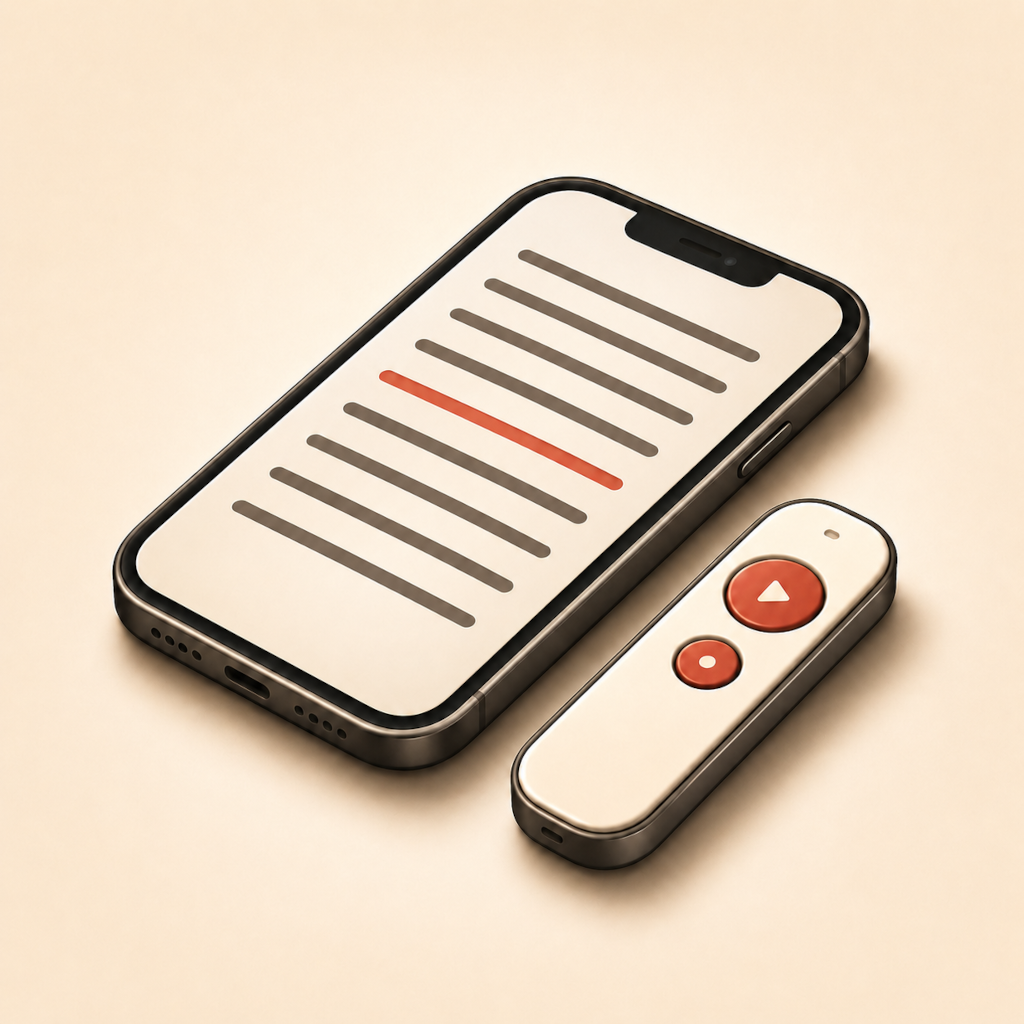
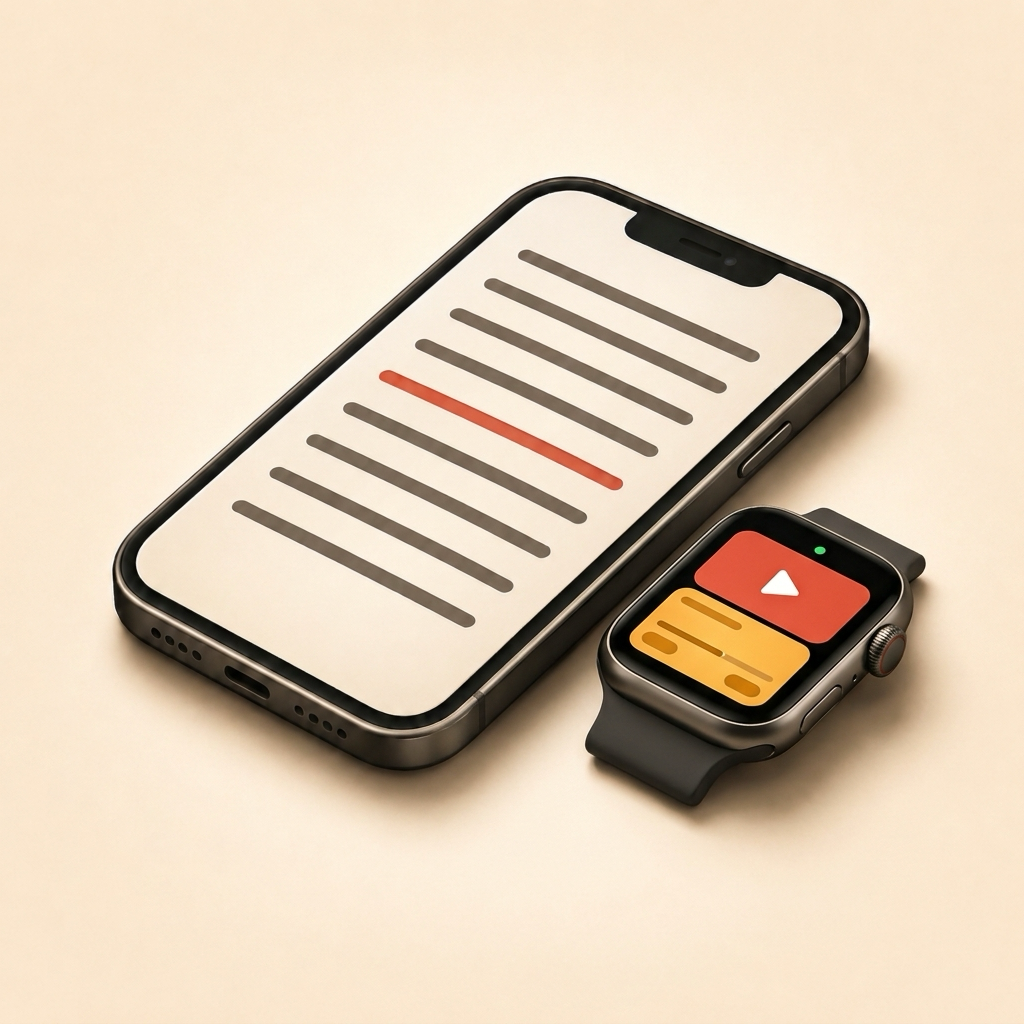
fix(privacy): disclose Mixpanel EU analytics and RevenueCat subscription processing in privacy policy

Changed region(s): [[0.5, 0.4688, 0.9375, 0.9062], [0.4062, 0.6875, 0.4688, 0.75]]

diff --git a/privacy.html b/privacy.html
@@ -4,7 +4,7 @@
     <meta charset="UTF-8">
     <meta name="viewport" content="width=device-width, initial-scale=1.0">
     <title>Privacy Policy — VoxPresenter</title>
-    <meta name="description" content="VoxPresenter privacy policy. All your data stays on your device.">
+    <meta name="description" content="VoxPresenter privacy policy. On-device speech recognition, local script storage, and transparent EU product analytics & subscription management.">
     <meta name="robots" content="index, follow">
     <link rel="canonical" href="https://voxpresenter.com/privacy.html">
     <meta name="apple-itunes-app" content="app-id=6772470530">
@@ -48,123 +48,115 @@
         <!-- ENGLISH -->
         <div class="lang-block active" id="block-en">
             <h1>Privacy Policy</h1>
-            <p class="last-updated">Last updated: May 23, 2026</p>
+            <p class="last-updated">Last updated: October 24, 2026</p>
             <div class="highlight">
-                <p><strong>Summary:</strong> VoxPresenter respects your privacy. All your data stays on your device. We collect, store, and share no personal data whatsoever.</p>
+                <p><strong>Summary:</strong> Your script bodies and voice audio stay on your device. To manage subscriptions and improve app reliability, VoxPresenter uses pseudonymous product analytics hosted in the European Union (Mixpanel EU) and subscription management via RevenueCat &amp; Apple StoreKit. We never sell your data or track you across third-party apps.</p>
             </div>
             <h2>1. Introduction</h2>
-            <p>VoxPresenter is a voice-driven teleprompter app built with privacy as an absolute priority. This policy explains how we handle — or rather, do not handle — your information.</p>
-            <h2>2. Data collected</h2>
-            <p><strong>We collect no personal data.</strong></p>
-            <p>VoxPresenter runs entirely on your device and stores locally:</p>
+            <p>VoxPresenter is a voice-driven teleprompter and stage remote app for iPhone, iPad, Apple Watch, Mac, and Windows. This Privacy Policy explains what data stays exclusively on your device, what technical and usage data is processed to operate the app, and how your rights are protected under the GDPR and Apple App Store guidelines.</p>
+            <h2>2. Data Stored Locally on Your Device</h2>
+            <p>Your teleprompter content is stored locally on your device (and in your personal iCloud / App Group container when syncing with the Share Extension or Apple Watch):</p>
             <ul>
-                <li>Your scripts and imported texts</li>
-                <li>Your display and reading preferences</li>
+                <li>The full body text of your scripts and imported documents (<code>.pptx</code>, <code>.docx</code>, <code>.pdf</code>, <code>.rtf</code>)</li>
+                <li>Your display, mirror, font size, and reading preferences</li>
             </ul>
-            <p>This data never leaves your device and is never sent to any server.</p>
-            <h2>3. Speech recognition</h2>
-            <p>VoxPresenter's speech recognition uses Apple's on-device <strong>Speech framework</strong>. Your voice is never sent to an external server. No audio recording is retained.</p>
-            <h2>4. Data storage</h2>
-            <p>All data is stored locally on your iPhone using Apple's native frameworks. It is:</p>
+            <p><strong>The body text of your scripts is never uploaded to our servers.</strong></p>
+            <h2>3. Speech Recognition &amp; Microphone</h2>
+            <p>VoxPresenter's voice tracking uses Apple's <strong>Speech framework</strong> (running offline on-device for supported languages). Your voice audio is analyzed in real time solely to highlight and advance your script. <strong>No audio recording is ever stored or transmitted to us.</strong></p>
+            <h2>4. Data Collected for App Functionality &amp; Analytics</h2>
+            <p>To operate subscriptions and improve product reliability, VoxPresenter collects the following categories of data, linked to a random pseudonymous installation identifier (not your name or email):</p>
             <ul>
-                <li>Protected by iOS native encryption</li>
-                <li>Accessible only to VoxPresenter</li>
-                <li>Backed up in your iCloud backup (if enabled)</li>
-                <li>Automatically deleted when you uninstall the app</li>
+                <li><strong>Identifiers:</strong> A random pseudonymous device/installation UUID (<code>distinct_id</code>) and an anonymous RevenueCat app user ID (<code>rc_user_id</code>).</li>
+                <li><strong>Purchases &amp; Subscription History:</strong> Subscription status, trial state, and product identifiers processed via Apple StoreKit and RevenueCat to unlock <em>VoxPresenter Pro</em> across your devices.</li>
+                <li><strong>Product Interaction &amp; Usage Data:</strong> App launches, onboarding step progression, paywall views, prompter session metrics (script UUID, script title, word and paragraph counts, session duration, voice vs. manual advances, accuracy ratios, display/mirror settings), and Mac/PC or Apple Watch remote usage (including local peer connection status).</li>
+                <li><strong>Diagnostics:</strong> Speech recognizer and audio session error codes, microphone restart counts, and app version/OS metadata to diagnose and fix stage or audio interruptions.</li>
+                <li><strong>User Content (Metadata &amp; Optional Feedback):</strong> Script title metadata in session events, and any optional free-text comment you voluntarily submit through the in-app feedback prompt.</li>
             </ul>
-            <h2>5. Data sharing</h2>
-            <p><strong>We share no data with any third party.</strong></p>
-            <p>No analytics, no tracking, no ads.</p>
-            <h2>6. Third-party services</h2>
-            <p>VoxPresenter uses no third-party service that could collect data:</p>
+            <h2>5. Third-Party Service Providers</h2>
+            <p>We work exclusively with privacy-compliant processors strictly necessary for analytics and subscriptions:</p>
             <ul>
-                <li>No Google Analytics</li>
-                <li>No Firebase</li>
-                <li>No Facebook SDK</li>
-                <li>No ads</li>
+                <li><strong>Mixpanel (EU Data Residency — <code>api-eu.mixpanel.com</code>):</strong> Used for pseudonymous product analytics and technical diagnostics, hosted on servers in the European Union.</li>
+                <li><strong>RevenueCat:</strong> Used to validate Apple StoreKit in-app purchases and manage <em>VoxPresenter Pro</em> subscription entitlements.</li>
+                <li><strong>Apple StoreKit &amp; Apple AdServices:</strong> Payments are processed directly by Apple. We also use Apple's privacy-preserving <code>AdServices</code> attribution token to measure the effectiveness of Apple Search Ads campaigns on the App Store, without cross-app tracking.</li>
             </ul>
-            <p>In-app purchases are handled by Apple via StoreKit. No payment data is transmitted to us.</p>
-            <h2>7. Security</h2>
+            <p>We do <strong>not</strong> use third-party advertising networks (no Meta/Facebook SDK, no Google Ads), we do <strong>not</strong> request App Tracking Transparency (IDFA) permissions, and we never sell or rent your data.</p>
+            <h2>6. Local Network &amp; Apple Watch Sync</h2>
+            <p>When you pair VoxPresenter with the Mac/PC companion app or the Apple Watch app, slide commands and active paragraph cues are transmitted directly between your own devices over your local network / Bluetooth (MultipeerConnectivity, UDP/TCP, or WatchConnectivity).</p>
+            <h2>7. Security &amp; Retention</h2>
             <ul>
-                <li>Privacy-by-design architecture — no server, no data leak risk</li>
-                <li>iOS native encryption</li>
-                <li>100% on-device speech processing</li>
+                <li>All network communication with Mixpanel EU and RevenueCat is encrypted via HTTPS/TLS.</li>
+                <li>Local scripts are protected by native iOS encryption and removed when you delete them or uninstall the app.</li>
+                <li>Pseudonymous analytics and subscription records are retained only as long as necessary to provide the service and improve the app.</li>
             </ul>
-            <h2>8. GDPR rights</h2>
-            <p>Under the GDPR, you have the following rights:</p>
+            <h2>8. Your GDPR &amp; Privacy Rights</h2>
+            <p>Under the GDPR and applicable privacy laws, you have the right to access, rectify, export, or request deletion of your data:</p>
             <ul>
-                <li><strong>Access:</strong> All your data is visible inside the app</li>
-                <li><strong>Rectification:</strong> You can edit or delete any text</li>
-                <li><strong>Deletion:</strong> Uninstall the app to delete all data</li>
+                <li><strong>Local data:</strong> You can edit or delete any script directly inside the app, or uninstall the app to erase all local data and reset your pseudonymous installation identifier.</li>
+                <li><strong>Analytics &amp; subscription records:</strong> Contact us at the email below to request access to or deletion of pseudonymous analytics or subscription records associated with your device.</li>
             </ul>
-            <p>Since we store no data on our servers, exercising these rights is immediate and entirely under your control.</p>
             <h2>9. Children</h2>
-            <p>VoxPresenter collects no data and does not target children under 13.</p>
+            <p>VoxPresenter does not target children under 13 and does not knowingly collect personal information from children.</p>
             <h2>10. Changes</h2>
-            <p>We may update this policy. For significant changes, we will notify you via an app update.</p>
+            <p>We may update this policy from time to time. The latest version is always available at <code>https://voxpresenter.com/privacy.html</code>.</p>
             <h2>11. Contact</h2>
-            <p><a href="mailto:xlarrodeapp+voxpresenter@gmail.com">xlarrodeapp+voxpresenter@gmail.com</a></p>
+            <p>For any privacy question or data request: <a href="mailto:xlarrodeapp+voxpresenter@gmail.com">xlarrodeapp+voxpresenter@gmail.com</a></p>
         </div>
 
         <!-- FRANÇAIS -->
         <div class="lang-block" id="block-fr">
             <h1>Politique de Confidentialité</h1>
-            <p class="last-updated">Dernière mise à jour : 23 mai 2026</p>
+            <p class="last-updated">Dernière mise à jour : 24 octobre 2026</p>
             <div class="highlight">
-                <p><strong>Résumé :</strong> VoxPresenter respecte votre vie privée. Toutes vos données restent sur votre appareil. Nous ne collectons, ne stockons ni ne partageons aucune donnée personnelle.</p>
+                <p><strong>Résumé :</strong> Le contenu de vos discours et votre voix restent sur votre appareil. Pour gérer les abonnements et améliorer la fiabilité de l'application, VoxPresenter utilise des statistiques produit pseudonymisées hébergées dans l'Union européenne (Mixpanel UE) ainsi que RevenueCat et Apple StoreKit. Nous ne vendons jamais vos données et n'effectuons aucun suivi publicitaire inter-applications.</p>
             </div>
             <h2>1. Introduction</h2>
-            <p>VoxPresenter est une application de prompteur vocal conçue avec le respect de votre vie privée comme priorité absolue. Cette politique explique comment nous traitons — ou plutôt, ne traitons pas — vos informations.</p>
-            <h2>2. Données collectées</h2>
-            <p><strong>Nous ne collectons aucune donnée personnelle.</strong></p>
-            <p>VoxPresenter fonctionne entièrement sur votre appareil et stocke localement :</p>
+            <p>VoxPresenter est une application de téléprompteur vocal et de télécommande de scène pour iPhone, iPad, Apple Watch, Mac et Windows. Cette politique explique quelles données restent exclusivement sur votre appareil, quelles données techniques et d'usage sont traitées pour faire fonctionner l'application, et comment vos droits sont protégés conformément au RGPD et aux règles de l'App Store d'Apple.</p>
+            <h2>2. Données stockées localement sur votre appareil</h2>
+            <p>Vos contenus de téléprompteur sont stockés localement sur votre appareil (ainsi que dans votre conteneur iCloud / App Group personnel lors du partage avec l'extension ou l'Apple Watch) :</p>
             <ul>
-                <li>Vos textes et scripts importés</li>
-                <li>Vos préférences d'affichage et de lecture</li>
+                <li>Le texte intégral de vos discours et documents importés (<code>.pptx</code>, <code>.docx</code>, <code>.pdf</code>, <code>.rtf</code>)</li>
+                <li>Vos préférences d'affichage, de miroir, de taille de police et de lecture</li>
             </ul>
-            <p>Ces données ne quittent jamais votre appareil et ne sont transmises à aucun serveur.</p>
-            <h2>3. Reconnaissance vocale</h2>
-            <p>La reconnaissance vocale de VoxPresenter utilise le framework <strong>Speech d'Apple</strong>, traité entièrement sur votre appareil. Votre voix n'est jamais envoyée à un serveur externe. Aucun enregistrement audio n'est conservé.</p>
-            <h2>4. Stockage des données</h2>
-            <p>Toutes vos données sont stockées localement sur votre iPhone via les frameworks natifs d'Apple. Elles sont :</p>
+            <p><strong>Le corps de texte de vos scripts n'est jamais envoyé sur nos serveurs.</strong></p>
+            <h2>3. Reconnaissance vocale &amp; Microphone</h2>
+            <p>Le suivi vocal de VoxPresenter repose sur le framework <strong>Speech d'Apple</strong> (exécuté hors-ligne sur l'appareil pour les langues compatibles). Votre voix est analysée en temps réel uniquement pour faire défiler votre texte. <strong>Aucun enregistrement audio n'est conservé ni transmis à nos serveurs.</strong></p>
+            <h2>4. Données collectées pour le fonctionnement et l'analyse produit</h2>
+            <p>Pour assurer la gestion des abonnements et améliorer la fiabilité du suivi vocal, VoxPresenter collecte les catégories de données suivantes, associées à un identifiant d'installation aléatoire et pseudonymisé (sans votre nom ni votre adresse e-mail) :</p>
             <ul>
-                <li>Protégées par le chiffrement natif d'iOS</li>
-                <li>Accessibles uniquement par l'application VoxPresenter</li>
-                <li>Sauvegardées dans vos sauvegardes iCloud (si activées)</li>
-                <li>Supprimées automatiquement si vous désinstallez l'application</li>
+                <li><strong>Identifiants :</strong> Un identifiant UUID aléatoire pseudonymisé (<code>distinct_id</code>) et un identifiant utilisateur anonyme RevenueCat (<code>rc_user_id</code>).</li>
+                <li><strong>Historique d'achats &amp; Abonnements :</strong> Statut d'abonnement, période d'essai et identifiants d'offre traités via Apple StoreKit et RevenueCat afin de débloquer <em>VoxPresenter Pro</em>.</li>
+                <li><strong>Données d'utilisation (Interactions avec le produit) :</strong> Ouvertures de l'application, étapes de l'onboarding, affichages du paywall, métriques de session du prompteur (UUID du script, titre du texte, nombre de mots et de paragraphes, durée de session, avancements vocaux ou manuels, taux de précision, réglages miroir/affichage), ainsi que l'utilisation de la télécommande Mac/PC et Apple Watch.</li>
+                <li><strong>Données de diagnostic :</strong> Codes d'erreur du moteur de reconnaissance vocale et de la session audio, nombre de relances micro et version d'iOS/modèle d'appareil afin de diagnostiquer et corriger les interruptions en conditions réelles.</li>
+                <li><strong>Contenu utilisateur (Métadonnées &amp; Avis facultatifs) :</strong> Titre du script associé aux événements de session, ainsi que tout commentaire libre facultatif que vous choisissez d'envoyer via le formulaire de retour intégré.</li>
             </ul>
-            <h2>5. Partage des données</h2>
-            <p><strong>Nous ne partageons aucune donnée avec des tiers.</strong></p>
-            <p>Aucun analytics, aucun tracking, aucune publicité.</p>
-            <h2>6. Services tiers</h2>
-            <p>VoxPresenter n'utilise aucun service tiers susceptible de collecter des données :</p>
+            <h2>5. Services tiers et sous-traitants</h2>
+            <p>Nous faisons appel uniquement à des prestataires conformes au RGPD et strictement nécessaires au service :</p>
             <ul>
-                <li>Pas de Google Analytics</li>
-                <li>Pas de Firebase</li>
-                <li>Pas de Facebook SDK</li>
-                <li>Pas de publicités</li>
+                <li><strong>Mixpanel (Hébergement UE — <code>api-eu.mixpanel.com</code>) :</strong> Utilisé pour l'analyse produit pseudonymisée et les diagnostics techniques, avec stockage des données sur des serveurs situés dans l'Union européenne.</li>
+                <li><strong>RevenueCat :</strong> Utilisé pour vérifier les achats intégrés Apple StoreKit et gérer les droits d'accès à l'abonnement <em>VoxPresenter Pro</em>.</li>
+                <li><strong>Apple StoreKit &amp; Apple AdServices :</strong> Les paiements sont gérés exclusivement par Apple (aucune donnée bancaire ne nous est transmise). Nous utilisons également le jeton d'attribution respectueux de la vie privée <code>Apple AdServices</code> pour mesurer l'efficacité de nos campagnes Apple Search Ads sur l'App Store, sans suivi inter-applications.</li>
             </ul>
-            <p>Les achats intégrés sont gérés par Apple via StoreKit. Aucune donnée de paiement ne nous est transmise.</p>
-            <h2>7. Sécurité</h2>
+            <p>Nous n'utilisons <strong>aucun SDK publicitaire tiers</strong> (pas de Facebook/Meta SDK, pas de Google Ads), nous ne demandons aucun accès à l'identifiant publicitaire IDFA (<code>NSPrivacyTracking = false</code>) et nous ne vendons jamais vos données.</p>
+            <h2>6. Réseau local &amp; Synchronisation Apple Watch</h2>
+            <p>Lorsque vous connectez VoxPresenter à l'application compagnon Mac/PC ou à l'Apple Watch, les commandes de diapositives et les repères de paragraphes transitent directement entre vos appareils via votre réseau local ou Bluetooth (MultipeerConnectivity, UDP/TCP ou WatchConnectivity).</p>
+            <h2>7. Sécurité &amp; Conservation</h2>
             <ul>
-                <li>Architecture "privacy by design" — aucun serveur, aucun risque de fuite</li>
-                <li>Chiffrement iOS natif</li>
-                <li>Traitement vocal 100 % local</li>
+                <li>Toutes les communications réseau avec Mixpanel UE et RevenueCat sont chiffrées en HTTPS/TLS.</li>
+                <li>Vos textes locaux sont protégés par le chiffrement natif d'iOS et supprimés dès que vous les effacez ou désinstallez l'application.</li>
+                <li>Les données analytiques pseudonymisées et d'abonnement ne sont conservées que pendant la durée nécessaire à la fourniture et à l'amélioration du service.</li>
             </ul>
-            <h2>8. Droits RGPD</h2>
-            <p>Conformément au RGPD, vous avez les droits suivants :</p>
+            <h2>8. Vos droits RGPD</h2>
+            <p>Conformément au RGPD, vous disposez d'un droit d'accès, de rectification, de portabilité et d'effacement de vos données :</p>
             <ul>
-                <li><strong>Accès :</strong> Toutes vos données sont visibles dans l'application</li>
-                <li><strong>Rectification :</strong> Vous pouvez modifier ou supprimer n'importe quel texte</li>
-                <li><strong>Suppression :</strong> Désinstallez l'app pour supprimer toutes les données</li>
+                <li><strong>Données locales :</strong> Vous pouvez modifier ou supprimer n'importe quel texte directement dans l'application, ou désinstaller l'application pour supprimer toutes les données locales et réinitialiser l'identifiant pseudonymisé.</li>
+                <li><strong>Données analytiques et d'abonnement :</strong> Vous pouvez nous contacter à l'adresse ci-dessous pour demander l'accès ou la suppression des données pseudonymisées associées à votre appareil chez Mixpanel ou RevenueCat.</li>
             </ul>
-            <p>Puisque nous ne stockons aucune donnée sur nos serveurs, l'exercice de ces droits est immédiat et sous votre contrôle total.</p>
             <h2>9. Enfants</h2>
-            <p>VoxPresenter ne collecte aucune donnée et ne cible pas les enfants de moins de 13 ans.</p>
+            <p>VoxPresenter ne cible pas les enfants de moins de 13 ans et ne collecte pas sciemment de données personnelles les concernant.</p>
             <h2>10. Modifications</h2>
-            <p>Nous pouvons mettre à jour cette politique. En cas de changement important, nous vous en informerons via une mise à jour de l'application.</p>
+            <p>Nous pouvons mettre à jour cette politique. La version en vigueur est toujours consultable sur <code>https://voxpresenter.com/privacy.html</code>.</p>
             <h2>11. Contact</h2>
-            <p><a href="mailto:xlarrodeapp+voxpresenter@gmail.com">xlarrodeapp+voxpresenter@gmail.com</a></p>
+            <p>Pour toute question ou demande relative à vos données personnelles : <a href="mailto:xlarrodeapp+voxpresenter@gmail.com">xlarrodeapp+voxpresenter@gmail.com</a></p>
         </div>
     </main>
 
